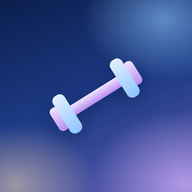
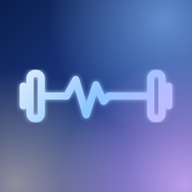
Icona e avvio: manubrio con il battito a linee (Daniele v62, Rosa v50, Umberto v42)

diff --git a/rosa/index.html b/rosa/index.html
@@ -769,11 +769,13 @@ svg.corpo .omb { fill:#7d83c9; }
 svg.corpo .an { stroke:#FF6B6B; stroke-width:3.2; } svg.corpo .np { fill:#FF6B6B; } svg.corpo .fl { stroke:#FF8A8A; }
 #avvio { background:radial-gradient(60% 45% at 85% 10%, rgba(142,197,255,.55), transparent 70%), radial-gradient(60% 45% at 10% 95%, rgba(255,224,178,.45), transparent 70%),
   radial-gradient(70% 50% at 95% 95%, rgba(217,180,255,.6), transparent 70%), linear-gradient(160deg,#0B1F4D,#1d3a86 50%,#5a5bb0); }
+/* v62: logo di avvio a linee (manubrio con il battito, come l'icona): più grande perché è sottile */
+#avvio svg { width:180px; height:180px; }
 </style>
 </head>
 <body>
-<div id="avvio" aria-hidden="true"><svg viewBox="0 0 512 512"><defs><linearGradient id="avA" x1="0" y1="0" x2="0" y2="1"><stop offset="0" stop-color="#E3F0FF"/><stop offset="1" stop-color="#8EC5FF"/></linearGradient><linearGradient id="avB" x1="0" y1="0" x2="0" y2="1"><stop offset="0" stop-color="#F0E4FF"/><stop offset="1" stop-color="#B98BF2"/></linearGradient></defs>
-  <g transform="rotate(-32 256 256)"><rect x="150" y="238" width="212" height="36" rx="18" fill="url(#avB)"/><rect x="98" y="214" width="34" height="84" rx="15" fill="url(#avB)"/><rect x="380" y="214" width="34" height="84" rx="15" fill="url(#avB)"/><rect x="124" y="186" width="44" height="140" rx="19" fill="url(#avA)"/><rect x="344" y="186" width="44" height="140" rx="19" fill="url(#avA)"/></g></svg><b>Il tuo taccuino</b></div>
+<div id="avvio" aria-hidden="true"><svg viewBox="0 0 512 512"><defs><linearGradient id="avT" gradientUnits="userSpaceOnUse" x1="60" y1="100" x2="452" y2="420"><stop offset="0" stop-color="#F2F8FF"/><stop offset=".5" stop-color="#8EC5FF"/><stop offset="1" stop-color="#D9B4FF"/></linearGradient><filter id="avG"><feGaussianBlur stdDeviation="6" result="b"/><feMerge><feMergeNode in="b"/><feMergeNode in="SourceGraphic"/></feMerge></filter></defs>
+  <g fill="none" stroke="url(#avT)" stroke-linecap="round" stroke-linejoin="round" filter="url(#avG)" stroke-width="19"><path d="M62 230V282"/><rect x="80" y="196" width="30" height="120" rx="13"/><path d="M110 256H178L202 212L230 306L256 226L276 270L290 256H402"/><rect x="402" y="196" width="30" height="120" rx="13"/><path d="M450 230V282"/></g></svg><b>Il tuo taccuino</b></div>
 <div id="vista"></div>
 
 <div id="pan"><div class="dentro">

diff --git a/index.html b/index.html
@@ -745,11 +745,13 @@ svg.corpo .omb { fill:#7d83c9; }
 svg.corpo .an { stroke:#FF6B6B; stroke-width:3.2; } svg.corpo .np { fill:#FF6B6B; } svg.corpo .fl { stroke:#FF8A8A; }
 #avvio { background:radial-gradient(60% 45% at 85% 10%, rgba(142,197,255,.55), transparent 70%), radial-gradient(60% 45% at 10% 95%, rgba(255,224,178,.45), transparent 70%),
   radial-gradient(70% 50% at 95% 95%, rgba(217,180,255,.6), transparent 70%), linear-gradient(160deg,#0B1F4D,#1d3a86 50%,#5a5bb0); }
+/* v62: logo di avvio a linee (manubrio con il battito, come l'icona): più grande perché è sottile */
+#avvio svg { width:180px; height:180px; }
 </style>
 </head>
 <body>
-<div id="avvio" aria-hidden="true"><svg viewBox="0 0 512 512"><defs><linearGradient id="avA" x1="0" y1="0" x2="0" y2="1"><stop offset="0" stop-color="#E3F0FF"/><stop offset="1" stop-color="#8EC5FF"/></linearGradient><linearGradient id="avB" x1="0" y1="0" x2="0" y2="1"><stop offset="0" stop-color="#F0E4FF"/><stop offset="1" stop-color="#B98BF2"/></linearGradient></defs>
-  <g transform="rotate(-32 256 256)"><rect x="150" y="238" width="212" height="36" rx="18" fill="url(#avB)"/><rect x="98" y="214" width="34" height="84" rx="15" fill="url(#avB)"/><rect x="380" y="214" width="34" height="84" rx="15" fill="url(#avB)"/><rect x="124" y="186" width="44" height="140" rx="19" fill="url(#avA)"/><rect x="344" y="186" width="44" height="140" rx="19" fill="url(#avA)"/></g></svg><b>Taccuino</b></div>
+<div id="avvio" aria-hidden="true"><svg viewBox="0 0 512 512"><defs><linearGradient id="avT" gradientUnits="userSpaceOnUse" x1="60" y1="100" x2="452" y2="420"><stop offset="0" stop-color="#F2F8FF"/><stop offset=".5" stop-color="#8EC5FF"/><stop offset="1" stop-color="#D9B4FF"/></linearGradient><filter id="avG"><feGaussianBlur stdDeviation="6" result="b"/><feMerge><feMergeNode in="b"/><feMergeNode in="SourceGraphic"/></feMerge></filter></defs>
+  <g fill="none" stroke="url(#avT)" stroke-linecap="round" stroke-linejoin="round" filter="url(#avG)" stroke-width="19"><path d="M62 230V282"/><rect x="80" y="196" width="30" height="120" rx="13"/><path d="M110 256H178L202 212L230 306L256 226L276 270L290 256H402"/><rect x="402" y="196" width="30" height="120" rx="13"/><path d="M450 230V282"/></g></svg><b>Taccuino</b></div>
 <div id="vista"></div>
 
 <div id="pan"><div class="dentro">

diff --git a/umberto/index.html b/umberto/index.html
@@ -745,11 +745,13 @@ svg.corpo .omb { fill:#7d83c9; }
 svg.corpo .an { stroke:#FF6B6B; stroke-width:3.2; } svg.corpo .np { fill:#FF6B6B; } svg.corpo .fl { stroke:#FF8A8A; }
 #avvio { background:radial-gradient(60% 45% at 85% 10%, rgba(142,197,255,.55), transparent 70%), radial-gradient(60% 45% at 10% 95%, rgba(255,224,178,.45), transparent 70%),
   radial-gradient(70% 50% at 95% 95%, rgba(217,180,255,.6), transparent 70%), linear-gradient(160deg,#0B1F4D,#1d3a86 50%,#5a5bb0); }
+/* v62: logo di avvio a linee (manubrio con il battito, come l'icona): più grande perché è sottile */
+#avvio svg { width:180px; height:180px; }
 </style>
 </head>
 <body>
-<div id="avvio" aria-hidden="true"><svg viewBox="0 0 512 512"><defs><linearGradient id="avA" x1="0" y1="0" x2="0" y2="1"><stop offset="0" stop-color="#E3F0FF"/><stop offset="1" stop-color="#8EC5FF"/></linearGradient><linearGradient id="avB" x1="0" y1="0" x2="0" y2="1"><stop offset="0" stop-color="#F0E4FF"/><stop offset="1" stop-color="#B98BF2"/></linearGradient></defs>
-  <g transform="rotate(-32 256 256)"><rect x="150" y="238" width="212" height="36" rx="18" fill="url(#avB)"/><rect x="98" y="214" width="34" height="84" rx="15" fill="url(#avB)"/><rect x="380" y="214" width="34" height="84" rx="15" fill="url(#avB)"/><rect x="124" y="186" width="44" height="140" rx="19" fill="url(#avA)"/><rect x="344" y="186" width="44" height="140" rx="19" fill="url(#avA)"/></g></svg><b>Taccuino</b></div>
+<div id="avvio" aria-hidden="true"><svg viewBox="0 0 512 512"><defs><linearGradient id="avT" gradientUnits="userSpaceOnUse" x1="60" y1="100" x2="452" y2="420"><stop offset="0" stop-color="#F2F8FF"/><stop offset=".5" stop-color="#8EC5FF"/><stop offset="1" stop-color="#D9B4FF"/></linearGradient><filter id="avG"><feGaussianBlur stdDeviation="6" result="b"/><feMerge><feMergeNode in="b"/><feMergeNode in="SourceGraphic"/></feMerge></filter></defs>
+  <g fill="none" stroke="url(#avT)" stroke-linecap="round" stroke-linejoin="round" filter="url(#avG)" stroke-width="19"><path d="M62 230V282"/><rect x="80" y="196" width="30" height="120" rx="13"/><path d="M110 256H178L202 212L230 306L256 226L276 270L290 256H402"/><rect x="402" y="196" width="30" height="120" rx="13"/><path d="M450 230V282"/></g></svg><b>Taccuino</b></div>
 <div id="vista"></div>
 
 <div id="pan"><div class="dentro">

diff --git a/rosa/sw.js b/rosa/sw.js
@@ -1,7 +1,7 @@
 // Taccuino di Rosa: funziona anche senza rete. Cambia VERSIONE a ogni aggiornamento dell'app.
 // Vive in una cartella sua, con una memoria sua: tocca solo le copie che cominciano con PREFISSO.
 const PREFISSO = "taccuino-rosa-";
-const VERSIONE = PREFISSO + "v49";
+const VERSIONE = PREFISSO + "v50";
 const FILE = ["./", "index.html", "manifest.webmanifest", "icon-192.png", "icon-512.png", "img/allenamento.jpg", "img/alimentazione.jpg", "font/archivo.woff2", "img/pasti/col.jpg", "img/pasti/spu.jpg", "img/pasti/pra.jpg", "img/pasti/mer.jpg", "img/pasti/cen.jpg", "img/pasti/prep.jpg", "img/rep/bevande.jpg", "img/rep/carne.jpg", "img/rep/dolci.jpg", "img/rep/frutta.jpg", "img/rep/frutta_secca.jpg", "img/rep/latticini.jpg", "img/rep/legumi.jpg", "img/rep/mio.jpg", "img/rep/olio.jpg", "img/rep/pane.jpg", "img/rep/pasta.jpg", "img/rep/patate.jpg", "img/rep/pesce.jpg", "img/rep/polveri.jpg", "img/rep/resto.jpg", "img/rep/salumi.jpg", "img/rep/uova.jpg", "img/rep/verdura.jpg"]
   // foto degli esercizi (img/es): servono anche senza rete, in palestra
   .concat("abductor-1 abductor-2 bulgaro-1 bulgaro-2 chest-press-1 chest-press-2 dead-bug-1 dead-bug-2 face-pull-1 face-pull-2 goblet-1 goblet-2 hip-thrust-1 hip-thrust-2 lat-1 lat-2 laterali-man-1 laterali-man-2 leg-curl-1 leg-curl-2 leg-press-1 leg-press-2 lento-man-1 lento-man-2 pallof-1 pallof-2 ponte-fem-1 ponte-fem-2 posteriori-seduta-1 posteriori-seduta-2 pulley-1 pulley-2 rematore-man-1 rematore-man-2 rumeno-man-1 rumeno-man-2".split(" ").map((x) => "img/es/" + x + ".jpg"));

diff --git a/umberto/sw.js b/umberto/sw.js
@@ -1,7 +1,7 @@
 // Taccuino (cartella umberto): funziona anche senza rete. Cambia VERSIONE a ogni aggiornamento dell'app.
 // Vive in una cartella sua, con una memoria sua: tocca solo le copie che cominciano con PREFISSO.
 const PREFISSO = "taccuino-umberto-";
-const VERSIONE = PREFISSO + "v41";
+const VERSIONE = PREFISSO + "v42";
 const FILE = ["./", "index.html", "manifest.webmanifest", "icon-192.png", "icon-512.png", "img/allenamento.jpg", "img/alimentazione.jpg", "font/archivo.woff2", "img/pasti/col.jpg", "img/pasti/spu.jpg", "img/pasti/pra.jpg", "img/pasti/mer.jpg", "img/pasti/cen.jpg", "img/pasti/prep.jpg", "img/rep/bevande.jpg", "img/rep/carne.jpg", "img/rep/dolci.jpg", "img/rep/frutta.jpg", "img/rep/frutta_secca.jpg", "img/rep/latticini.jpg", "img/rep/legumi.jpg", "img/rep/mio.jpg", "img/rep/olio.jpg", "img/rep/pane.jpg", "img/rep/pasta.jpg", "img/rep/patate.jpg", "img/rep/pesce.jpg", "img/rep/polveri.jpg", "img/rep/resto.jpg", "img/rep/salumi.jpg", "img/rep/uova.jpg", "img/rep/verdura.jpg",
   "img/trazione-basso.png", "img/trazione-alto.png", "img/foto-alto.jpg", "img/foto-da-dietro.jpg"]
   // foto degli esercizi (img/es): servono anche senza rete, in palestra

diff --git a/sw.js b/sw.js
@@ -1,6 +1,6 @@
 // Taccuino palestra: funziona anche senza rete. Cambia VERSIONE a ogni aggiornamento dell'app.
 // Cancella solo le proprie copie vecchie (taccuino-v…): le altre app della stessa origine, come rosa/, hanno le loro.
-const VERSIONE = "taccuino-v61";
+const VERSIONE = "taccuino-v62";
 const FILE = ["./", "index.html", "manifest.webmanifest", "icon-192.png", "icon-512.png", "img/allenamento.jpg", "img/alimentazione.jpg", "font/archivo.woff2", "img/pasti/col.jpg", "img/pasti/spu.jpg", "img/pasti/pra.jpg", "img/pasti/mer.jpg", "img/pasti/cen.jpg", "img/pasti/prep.jpg", "img/rep/bevande.jpg", "img/rep/carne.jpg", "img/rep/dolci.jpg", "img/rep/frutta.jpg", "img/rep/frutta_secca.jpg", "img/rep/latticini.jpg", "img/rep/legumi.jpg", "img/rep/mio.jpg", "img/rep/olio.jpg", "img/rep/pane.jpg", "img/rep/pasta.jpg", "img/rep/patate.jpg", "img/rep/pesce.jpg", "img/rep/polveri.jpg", "img/rep/resto.jpg", "img/rep/salumi.jpg", "img/rep/uova.jpg", "img/rep/verdura.jpg",
   "img/trazione-basso.png", "img/trazione-alto.png", "img/foto-alto.jpg", "img/foto-da-dietro.jpg"]
   // foto degli esercizi (img/es): servono anche senza rete, in palestra
